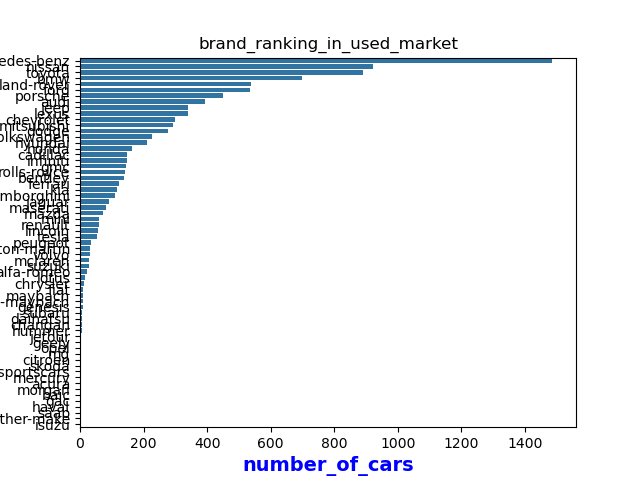
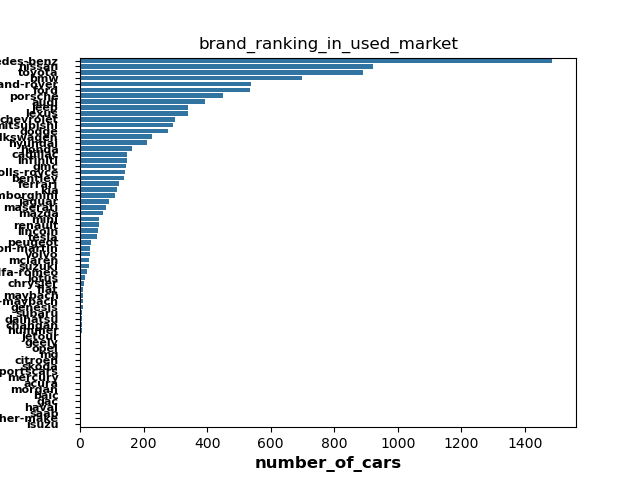
updata and finilize bar and pie charts

Changed region(s): [[0.0, 0.0938, 0.125, 0.9062], [0.375, 0.9375, 0.6562, 1.0]]

diff --git a/src/utils/analyser.py b/src/utils/analyser.py
@@ -34,13 +34,12 @@ def bar_brand_ranking():
     ORDER BY brand_count DESC;
     ''' 
     brand_ranking_df = sql_connection.query_df(brand_query)
-    print(brand_ranking_df.head(5))
     visualizer.barChart_plot(brand_ranking_df['brand_count'], 
                              brand_ranking_df['brand_name'], 'number_of_cars',
-                             'bran_name', 'brand_ranking_in_used_market')
+                             'brand_name', 'brand_ranking_in_used_market')
 
 def main():
-    # pieChart_emirates_rankning()
-    bar_brand_ranking()
+    pieChart_emirates_rankning()
+    # bar_brand_ranking()
 if __name__ == "__main__":
     main()

diff --git a/src/utils/visualizer.py b/src/utils/visualizer.py
@@ -13,8 +13,10 @@ def pieChart_plot(labels: pd.DataFrame, values: pd.DataFrame, plot_name: str):
     plt.show()
 
 def barChart_plot(values: pd.DataFrame, labels: pd.DataFrame, x_name: str, y_name: str, title: str):
-    sns.barplot(x= values, y= labels)
-    plt.xlabel(x_name, fontsize=14, color='blue', fontweight='bold')
+    ax = sns.barplot(x= values, y= labels)
+    plt.xlabel(x_name, fontsize=12, fontweight='bold')
+    plt.yticks(fontsize=8, fontweight='bold')
+    plt.tick_params(axis= 'y', pad = 12)
     plt.ylabel(y_name)
     plt.title(title)
     plt.savefig(f'/home/ahmed/projects/data_analysis/projects/ouput/plotting_images/{title}')
